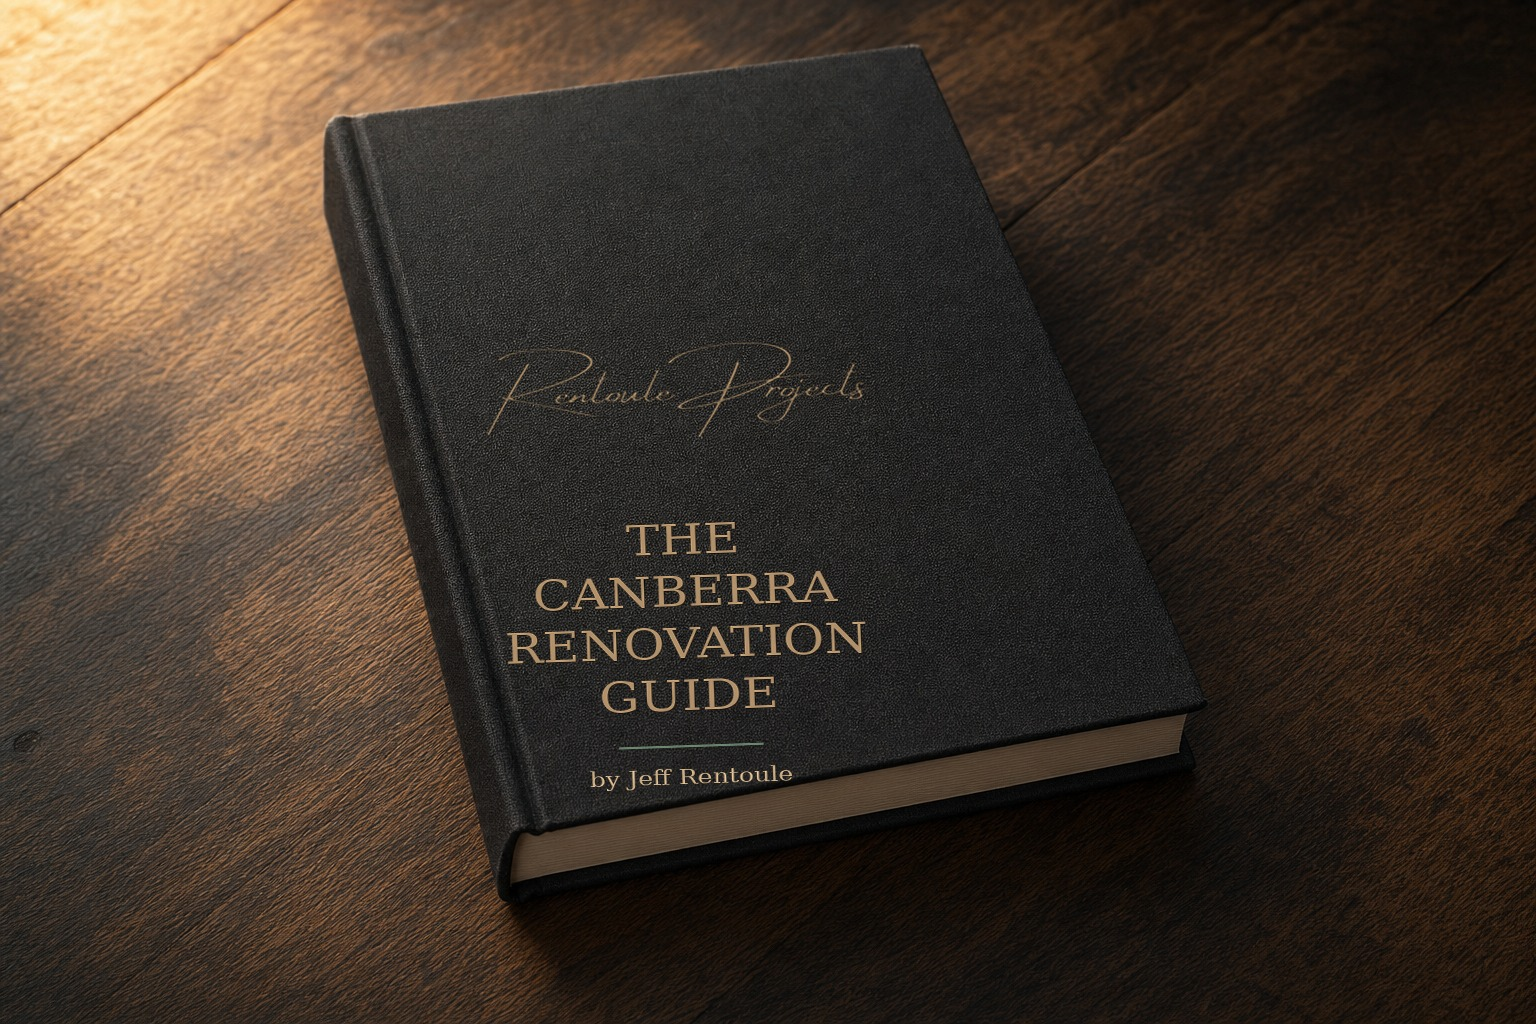
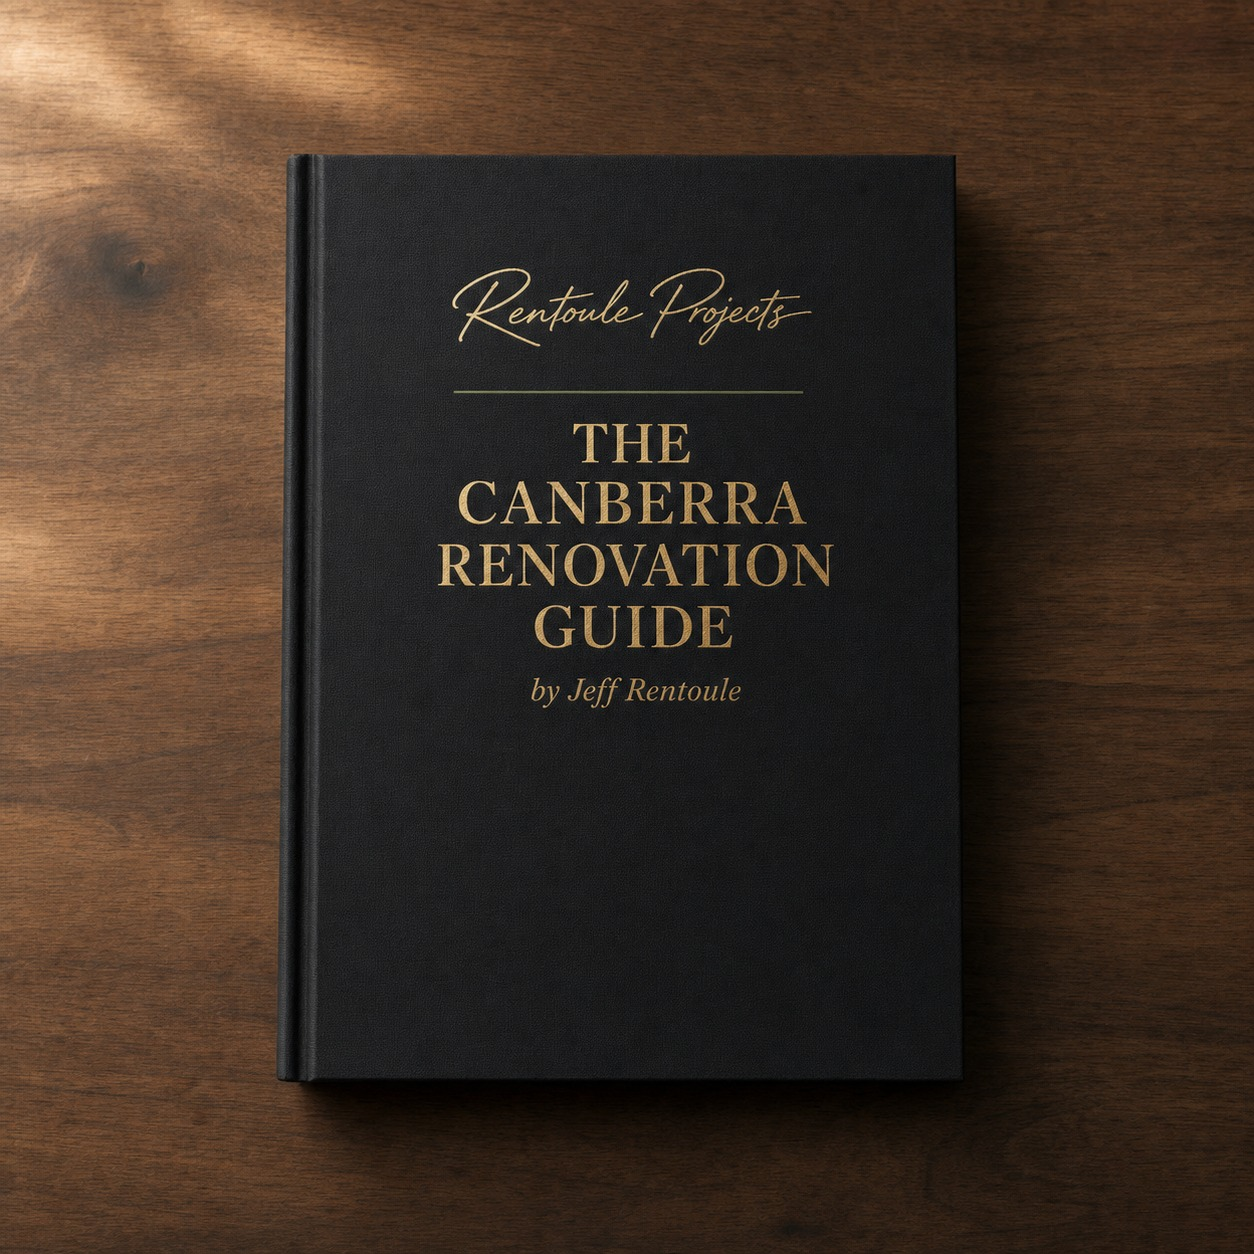
Replace book image with clean top-down shot, fix green-on-black readability
- New photoreal book photo with baked-in title (top-down view, clean)
- Hero restructured as two-column: book image left, headline right
  (book speaks for itself, page headline doesn't fight it)
- Removed green accents that read poorly on black:
  - Hero eyebrow underline: green-light -> gold
  - Hero meta separator: green-light -> gold
  - Inline CTA top border: green -> gold
- Green still used on lighter backgrounds where it reads well
  (TOC border, h2 left rule, h3 colour, cost table headers on white)

diff --git a/canberra-renovation-guide/index.html b/canberra-renovation-guide/index.html
@@ -50,38 +50,32 @@
 
   <!-- Page-specific styles -->
   <style>
-    /* Hero - book on table */
+    /* Hero - book on table, two-column layout */
     .guide-hero {
       position: relative;
-      min-height: 75vh;
-      display: flex;
-      align-items: center;
-      justify-content: center;
-      overflow: hidden;
       background: var(--black);
+      padding: var(--space-3xl) 0;
+      overflow: hidden;
     }
-    .guide-hero__bg {
-      position: absolute;
-      inset: 0;
-      background-image: url('../assets/guide-hero-book.jpg');
-      background-size: cover;
-      background-position: center;
-      background-repeat: no-repeat;
+    .guide-hero__inner {
+      max-width: 1280px;
+      margin: 0 auto;
+      padding: 0 var(--space-xl);
+      display: grid;
+      grid-template-columns: 1fr 1fr;
+      gap: var(--space-3xl);
+      align-items: center;
+      min-height: 70vh;
     }
-    .guide-hero__overlay {
-      position: absolute;
-      inset: 0;
-      background: linear-gradient(90deg, rgba(14,14,12,0.25) 0%, rgba(14,14,12,0.45) 50%, rgba(14,14,12,0.75) 100%);
+    .guide-hero__image {
+      width: 100%;
+      height: auto;
+      max-height: 80vh;
+      object-fit: contain;
+      filter: drop-shadow(0 24px 48px rgba(0,0,0,0.6));
     }
     .guide-hero__content {
-      position: relative;
-      z-index: 2;
-      max-width: 1200px;
-      width: 100%;
-      padding: var(--space-3xl) var(--space-xl);
-      text-align: right;
       color: var(--offwhite);
-      margin-left: auto;
     }
     .guide-hero__eyebrow {
       display: inline-block;
@@ -93,12 +87,12 @@
       margin-bottom: var(--space-lg);
       font-weight: 500;
       padding-bottom: var(--space-sm);
-      border-bottom: 1px solid var(--green-light);
+      border-bottom: 1px solid var(--gold);
     }
     .guide-hero__title {
       font-family: var(--font-serif);
       font-weight: 300;
-      font-size: clamp(2.5rem, 6vw, 4.5rem);
+      font-size: clamp(2.5rem, 5.5vw, 4.5rem);
       line-height: 1.05;
       margin: 0 0 var(--space-lg);
       color: var(--offwhite);
@@ -116,16 +110,27 @@
       opacity: 0.85;
     }
     .guide-hero__meta-sep {
-      color: var(--green-light);
+      color: var(--gold);
       margin: 0 var(--space-sm);
     }
-    @media (max-width: 768px) {
-      .guide-hero__content {
-        text-align: left;
-        padding: var(--space-2xl) var(--space-lg);
+    @media (max-width: 900px) {
+      .guide-hero__inner {
+        grid-template-columns: 1fr;
+        gap: var(--space-2xl);
+        text-align: center;
+        min-height: auto;
       }
-      .guide-hero__overlay {
-        background: linear-gradient(180deg, rgba(14,14,12,0.3) 0%, rgba(14,14,12,0.85) 100%);
+      .guide-hero__content {
+        order: 2;
+      }
+      .guide-hero__image {
+        order: 1;
+        max-height: 50vh;
+        margin: 0 auto;
+      }
+      .guide-hero__eyebrow {
+        margin: 0 auto var(--space-lg);
+        display: inline-block;
       }
     }
 
@@ -192,7 +197,7 @@
       color: var(--green-deep);
     }
 
-    /* Inline CTA - now with green accent on the black CTA */
+    /* Inline CTA - black with gold accent (gold reads, green didn't) */
     .guide-cta-inline {
       background: var(--black);
       color: var(--offwhite);
@@ -201,7 +206,7 @@
       border-radius: 4px;
       text-align: center;
       position: relative;
-      border-top: 3px solid var(--green);
+      border-top: 3px solid var(--gold);
     }
     .guide-cta-inline h3 {
       font-family: var(--font-serif);
@@ -355,19 +360,20 @@
   <!-- ====== MAIN ====== -->
   <main id="main-content" class="article-page">
 
-    <!-- Hero - book on surface -->
+    <!-- Hero - book image left, headline right -->
     <section class="guide-hero" aria-label="Guide hero">
-      <div class="guide-hero__bg"></div>
-      <div class="guide-hero__overlay"></div>
-      <div class="guide-hero__content">
-        <span class="guide-hero__eyebrow">The Free Guide</span>
-        <h1 class="guide-hero__title">The Canberra Renovation <em>Guide</em></h1>
-        <div class="guide-hero__meta">
-          <span>By Jeff Rentoule</span>
-          <span class="guide-hero__meta-sep">·</span>
-          <span>Updated May 2026</span>
-          <span class="guide-hero__meta-sep">·</span>
-          <span>20 min read</span>
+      <div class="guide-hero__inner">
+        <img src="../assets/guide-book-cover.jpg" alt="The Canberra Renovation Guide hardcover book with gold-foil title on a timber surface" class="guide-hero__image">
+        <div class="guide-hero__content">
+          <span class="guide-hero__eyebrow">The Free Guide</span>
+          <h1 class="guide-hero__title">The Canberra Renovation <em>Guide</em></h1>
+          <div class="guide-hero__meta">
+            <span>By Jeff Rentoule</span>
+            <span class="guide-hero__meta-sep">·</span>
+            <span>Updated May 2026</span>
+            <span class="guide-hero__meta-sep">·</span>
+            <span>20 min read</span>
+          </div>
         </div>
       </div>
     </section>
